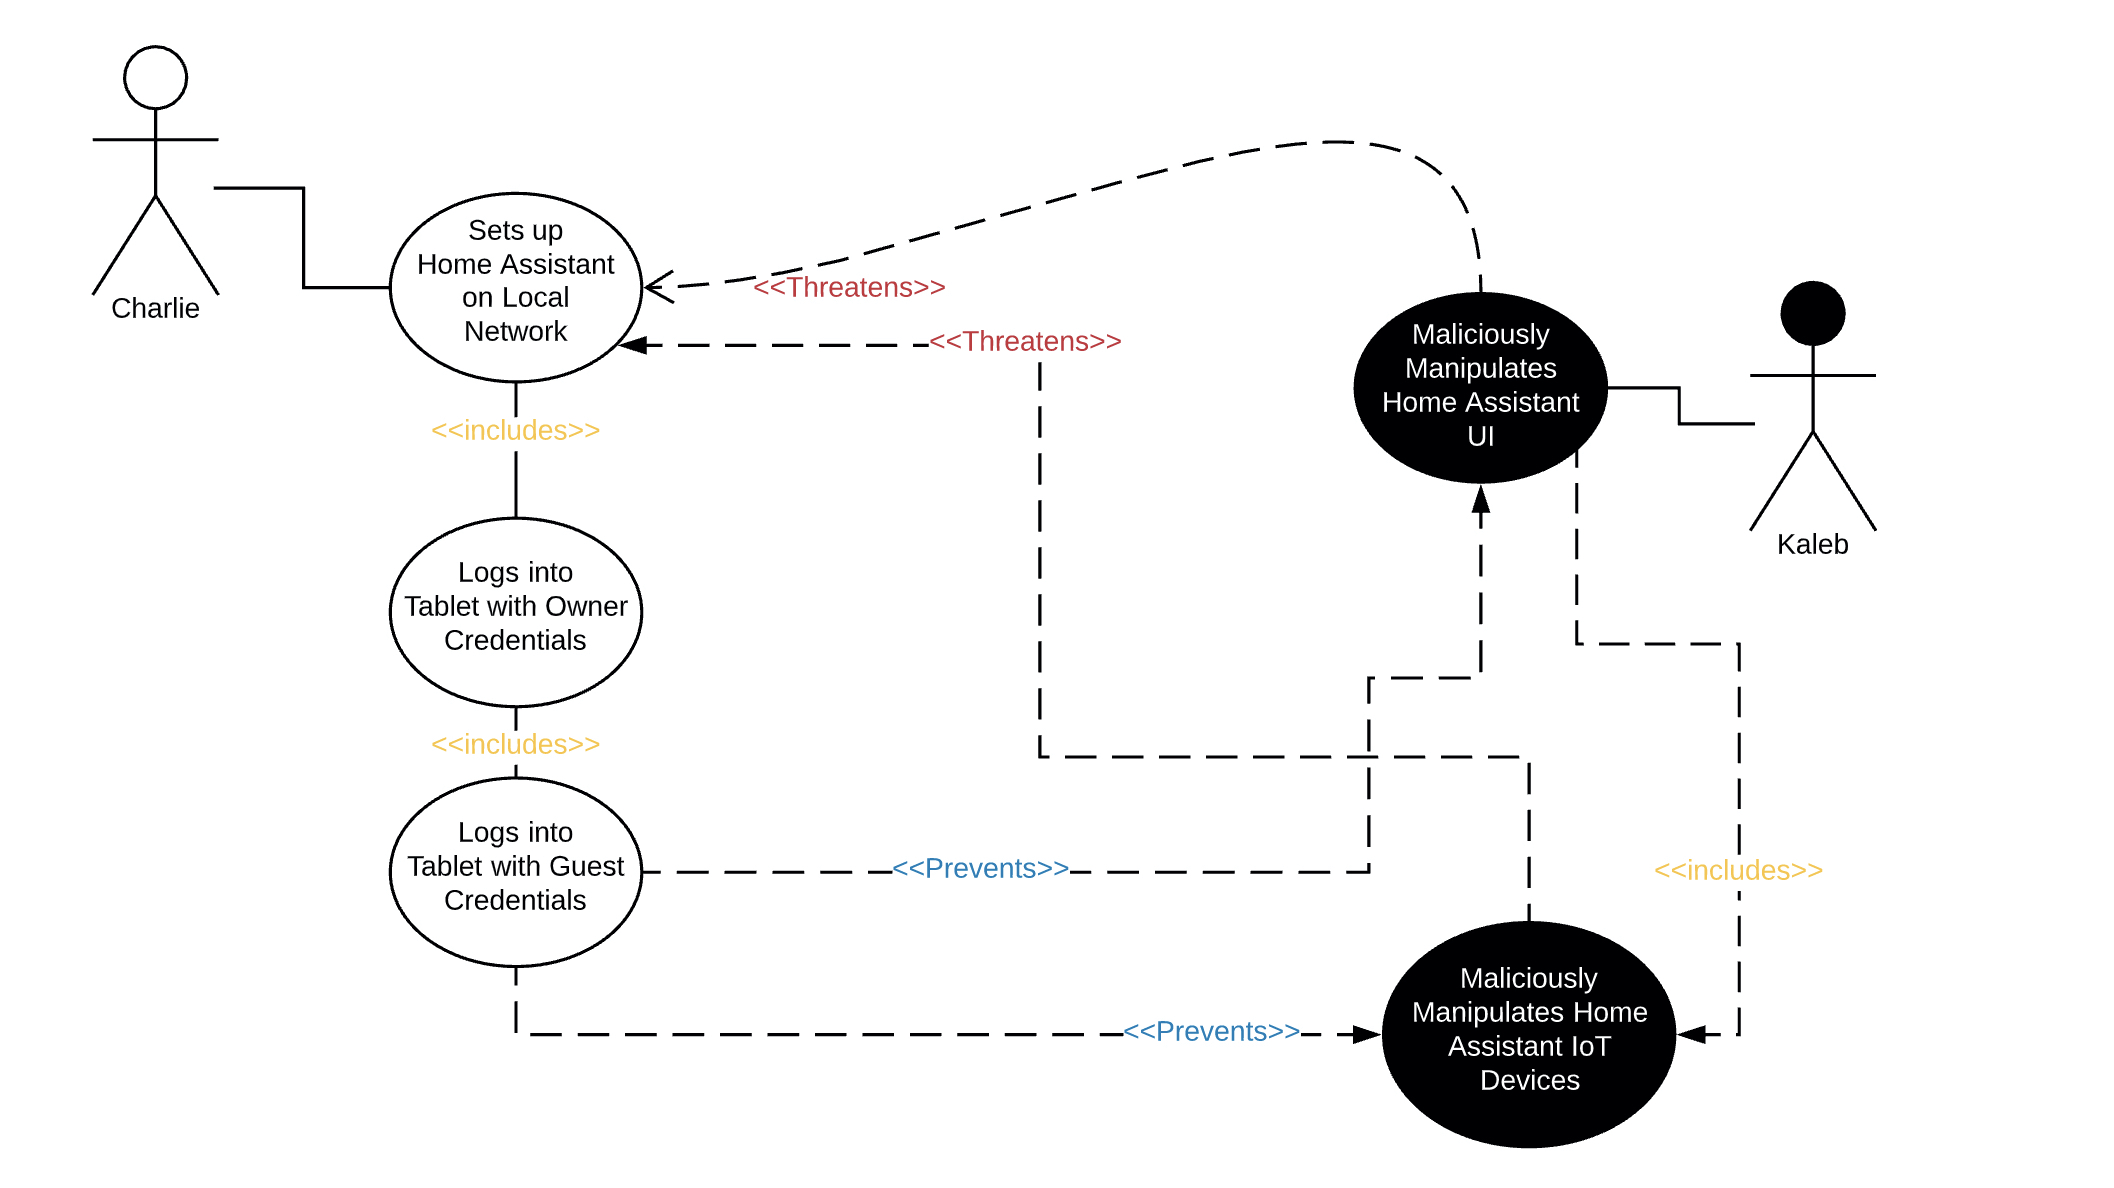
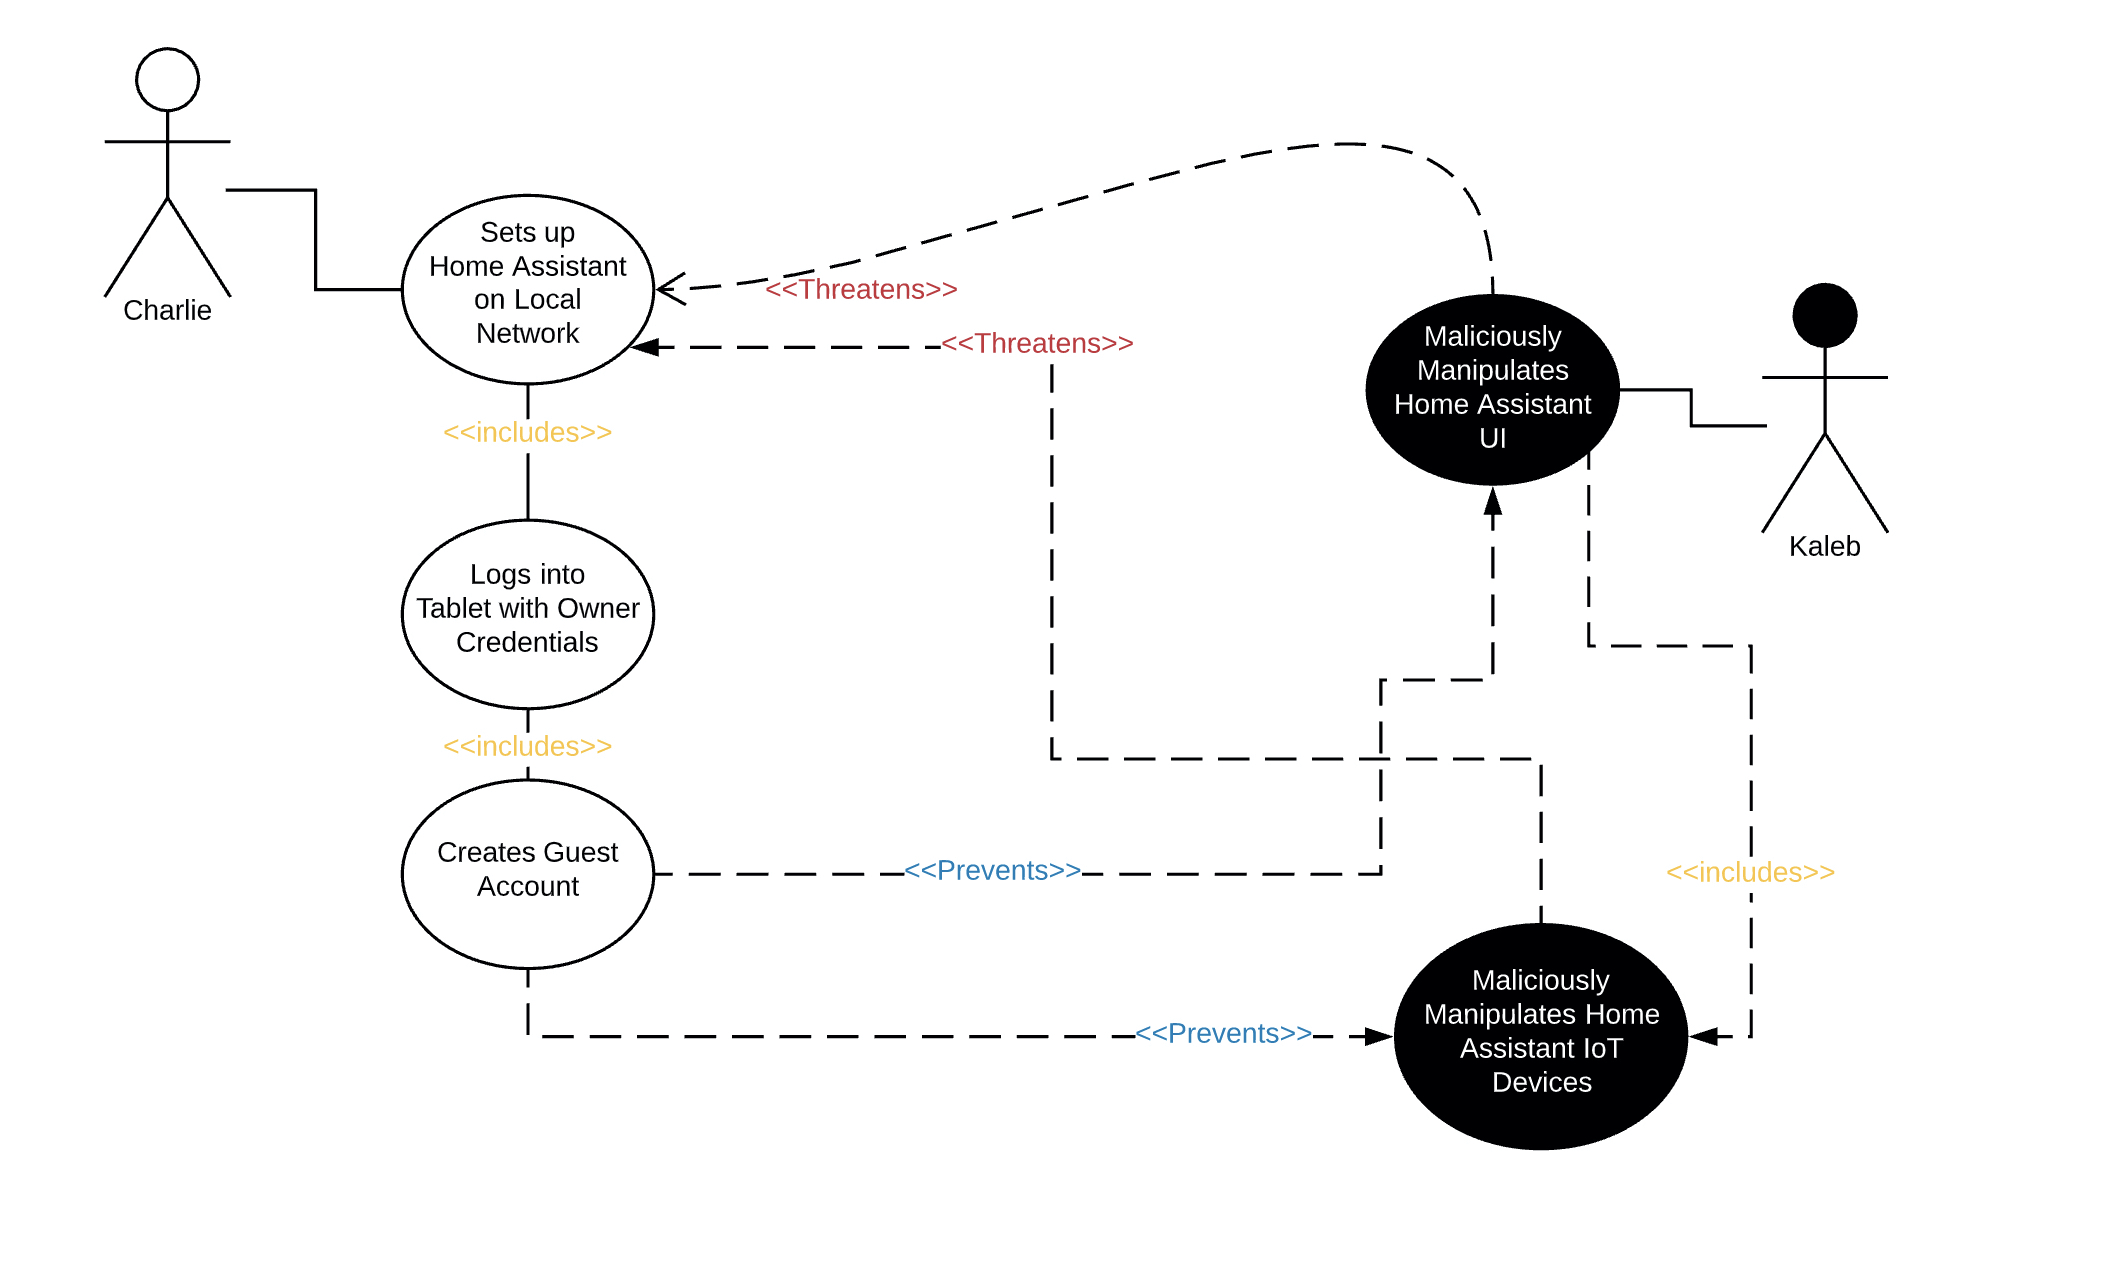
fixing spelling of words & updating diagram

diff --git a/Requirements for SSE.md b/Requirements for SSE.md
@@ -100,16 +100,14 @@ Risks of installing third-party add-ons is difficult for Home Assistant to contr
 
 #### Tablet Interface Use Case
 
-Charlie wants to be able to control his various IoT devices thorugh Home Assistant in the living room using a spare tablet. Home Assistant offers a customizable dashboards built in called [LoveLace](https://www.home-assistant.io/lovelace/), which allows for Charlie to set up a simple dashboard for his tablet, to control his various IoT devices with ease, such as his Amazon Alexa, Thermostat, and lights. Once installed Charlie is prompted for his login information to his account, Charlie being the only person set up in his Home Assistant, provides the login information that was orginially created during Home Assistants initaliazation, the Owner Account. Later that night Charlie invites his sister and her children over dinner, excited about his recent endevour, he shows his guests just how much control Home Assistant allows from his tablet.
-
+Charlie wants to be able to control his various IoT devices through Home Assistant in the living room using a spare tablet. Home Assistant offers a customizable dashboard built in called [Lovelace](https://www.home-assistant.io/lovelace/), which allows for Charlie to set up a simple dashboard for his tablet, to control his various IoT devices with ease, such as his Amazon Alexa, Thermostat, and lights. Once installed Charlie is prompted for his login information to his account, Charlie being the only person set up in his Home Assistant, provides the login information that was originally created during Home Assistants initialization, the Owner Account. Later that night Charlie invites his sister and her children over dinner, excited about his recent en devour, he shows his guests just how much control Home Assistant allows from his tablet.
 #### Tablet Interface Use Case
 
-Kaleb is one of Charlie's nephews whos more recently got into cyrbersecurity and hacking. Kaleb was extremely interested in Uncle Charlies integration with Home Assistant and while the adults where talking in the Kitchen, took Charlies Home Assistant integrated tablet to investigate. From the dashboard, Kaleb has access to the same configuration options as Charlie, more importantly access to all of the in network IoT devices, as well as their configurations. Kaleb also has access to the raw YAML configuration of Charlies tablet UI, allowing him to accidentally wipe out all of the customization Charlie has just set up. Kaleb also looks to add his own User to the Home Assistant System, which he can do, allowing him access to all devices in the system from his own phone whenever he is connected to Charlies local network.
+Kaleb is one of Charlie's nephews who's more recently got into cybersecurity and hacking. Kaleb was extremely interested in Uncle Charlies integration with Home Assistant and while the adults where talking in the Kitchen, took Charlies Home Assistant integrated tablet to investigate. From the dashboard, Kaleb has access to the same configuration options as Charlie, more importantly access to all the in network IoT devices, as well as their configurations. Kaleb also has access to the raw YAML configuration of Charlies tablet UI, allowing him to accidentally wipe out all the customization Charlie has just set up. Kaleb also looks to add his own User to the Home Assistant System, which he can do, allowing him to access to all devices in the system from his own phone whenever he is connected to Charlies local network.
 
 #### Prevention/Security Requirement
 
-To prevent Kaleb from doing all of these changes to Charlies Home Assistant integration, Home Assistant offers different users to be created to the system, allowing for a read-only configuration to be set up for tablet systems. While this prevents Kalebs initial attack, arguements could be made that Charlie should have been notified to system changes to his Home Assistant, especially when his owner account credentials were use. Home Assistant does offer notifications from events happening in there [System Logs](https://www.home-assistant.io/integrations/system_log/), however those are only triggered with error or warning events NOT valid login or configuration changes. Eventually I wish for Home Assitant to provide security practicies similar to [CIS Benchamrks for AWS #1.1](https://docs.aws.amazon.com/securityhub/latest/userguide/securityhub-cis-controls.html), that recommend the 'owner' account is never used, so that you can set up proper IAM access to systems through created Users.
-
+To prevent Kaleb from doing all of these changes to Charlies Home Assistant integration, Home Assistant gives administrator users the ability to create standard user accounts, allowing for read-only access to be set up for tablet systems. While this prevents Kalebs initial attack, arguments could be made that Charlie should have been notified to system changes to his Home Assistant, especially when his owner account credentials were use. Home Assistant does offer notifications from events happening in there [System Logs](https://www.home-assistant.io/integrations/system_log/), however those are only triggered with error or warning events NOT valid login or configuration changes. Eventually Home Assistant should provide better security practices similar to [CIS Benchmarks for AWS #1.1](https://docs.aws.amazon.com/securityhub/latest/userguide/securityhub-cis-controls.html), that recommend the 'owner' account is never used, so that you can set up proper IAM access to systems through created Users.
 #### Diagram
 
 ![Tablet Interface Use Case / Misuse Case Diagram](/images/Use-Case-5.png)
